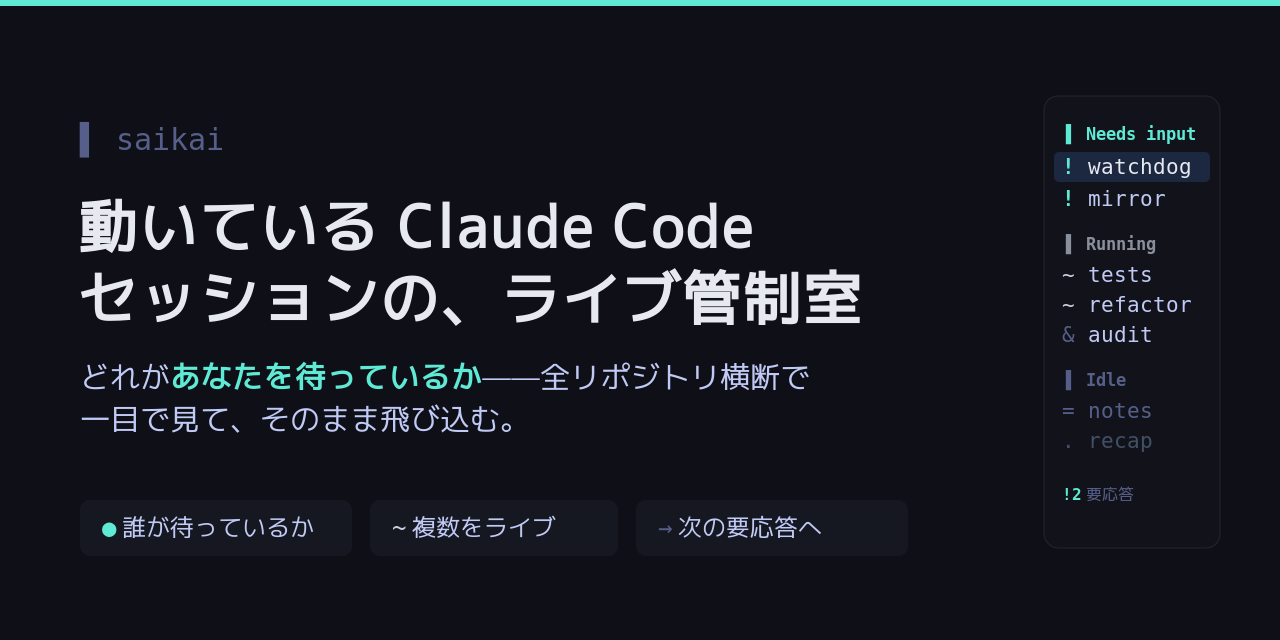
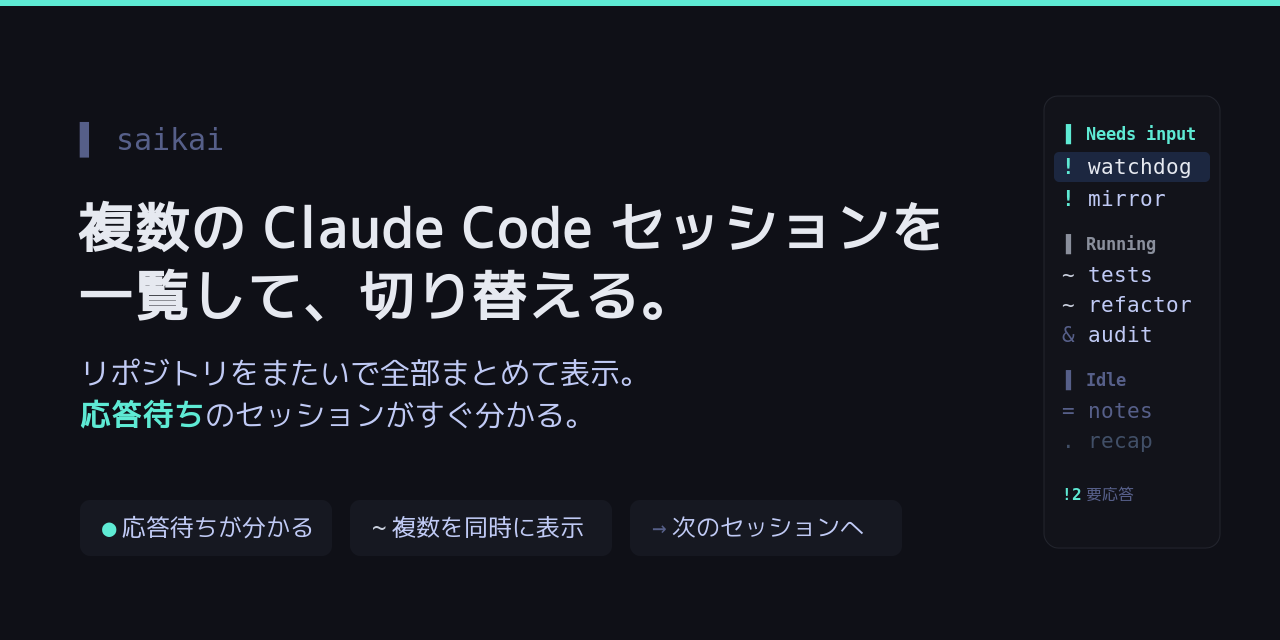
docs(ja): plain, unshowy Japanese copy for the card + README top
The Japanese hero/card leaned on translated-English flourishes ("ライブ管制室",
"飛び込む", "見張る", "艦隊") that read as trying-too-hard to a Japanese developer.
Rewrite in plain, action-based Japanese that just says what it does:

- card + README tagline → "複数の Claude Code セッションを一覧して、切り替えるツール。"
- sub/vs/who-it's-for/feature bullets → 一覧・切り替え・表示・応答待ち wording,
  dropping 管制室/飛び込む/見張る/艦隊 throughout.

The single cyan "応答待ち" accent and the meaning are unchanged; only the register
is calmer. English copy is left as-is (natural to a native reader).

diff --git a/README.ja.md b/README.ja.md
@@ -8,17 +8,17 @@
 
 [English](README.md) | **日本語**
 
-> ## 動いている Claude Code セッションぜんぶの、ライブ管制室。
-> **どれがあなたを待っているか**を——全リポジトリ・worktree を横断して——一目で見て、
-> そのまま飛び込む。左に検索できる一覧、右に選んだセッションがライブで動きます。
+> ## 複数の Claude Code セッションを一覧して、切り替えるツール。
+> リポジトリや worktree をまたいで全部まとめて表示し、**どれが応答待ちか**をひと目で
+> 確認できます。左に検索できる一覧、右に選んだセッションがそのまま動きます。
 
-<!-- 暫定ヒーロー: 現行の split-live 艦橋（SVG・実UIと一致）。アニメGIFを撮り直したら
+<!-- 暫定ヒーロー: 現行の split-live 画面（SVG・実UIと一致）。アニメGIFを撮り直したら
      ここを saikai-demo-ja.gif に戻す。 -->
 ![saikai — 左にセッション一覧、右で選んだ Claude がライブで動く](docs/assets/saikai-split-live.svg)
 
 **`claude --resume` との違い:** `-r` は今いるフォルダの *1つ* を開くだけ。saikai は
-**全部**を同時に見張り、複数を**ライブ**で並走させ、どれが作業中・入力待ち・完了して
-応答待ちかを**シアン1色**で一目に示します。ファイルを開き直すのと、管制室に座るのの違い。
+リポジトリや worktree をまたいで**全部を一覧**し、複数を同時に動かしたまま、どれが
+作業中・入力待ち・応答待ちかを**シアン1色**で示して、必要なものへすぐ切り替えられます。
 
 ## こんな人に向いています
 
@@ -27,15 +27,15 @@
 `claude --resume` は今のフォルダしか知らず、検索もプレビューも横断ビューもありません。
 saikai はその穴を埋めます。たとえばこんなとき:
 
-- **誰が自分を待っているか**を知りたい——動いている全セッションの状態を一目で見て、次に
-  対応すべきものへキー一つで飛びたい
-- 複数の `claude` を**ライブ**で並走させ、ターミナルのタブの山を作らずに即座に切り替えたい
+- **どれが応答待ちか**を知りたい——動いている全セッションの状態を一目で見て、次に対応
+  すべきものへキー一つで移りたい
+- 複数の `claude` を同時に動かし、ターミナルのタブを増やさずに切り替えたい
 - タイトルだけでは思い出せない作業を、本文・プレビュー・差分といった**中身**から探したい
-- よく戻るものをお気に入りにし、作業セットごと後で戻したい
+- よく戻るものをお気に入りにし、作業セットごと後で開き直したい
 
 ターミナルアプリにしたのには理由があります。Claude Code がそもそも CLI 中心で新機能も
-そこから早く来るし、デスクトップアプリより軽い。管制室のような横断ビューを、普段の
-ターミナルにそのまま置きました。
+そこから早く来るし、デスクトップアプリより軽い。横断ビューを、普段のターミナルに
+そのまま置きました。
 
 ## 主な機能
 
@@ -44,12 +44,12 @@ saikai はその穴を埋めます。たとえばこんなとき:
 
 > **行ったり来たり**: 一覧で `Enter` → 右ペインで Claude ／ `Ctrl+]` で一覧へ戻る ／ `F2` `F3` でペインを切り替え
 
-- **誰があなたを待っているか、一目で。** 一覧は状態でグループ分けされ、**入力待ち（Needs
-  input）が先頭**。「今あなたを待っている」だけにシアン1色を予約（`?` 入力待ち · `!` 完了・
-  要応答）、それ以外は落ち着いた dim。カーソルは起動時に最初の要応答へ*落ち*、キー一つで
-  次の要応答へ飛べます。
-- **複数の Claude をライブで並走、キー一つで切替。** 選んだセッションを右ペインで実プロセス
-  として動かし、行き来できます——ターミナルのタブの山ではなく、見張って操舵できる艦隊。
+- **どれが応答待ちか、一目で。** 一覧は状態でグループ分けされ、**入力待ち（Needs input）
+  が先頭**に並びます。「今あなたの応答待ち」だけにシアン1色を使い（`?` 入力待ち · `!` 完了・
+  要応答）、それ以外は落ち着いた dim。カーソルは起動時に最初の要応答へ移り、キー一つで
+  次の要応答へ進めます。
+- **複数の Claude を同時に動かし、キー一つで切替。** 選んだセッションを右ペインで実プロセス
+  として動かしたまま、別のセッションへ行き来できます。ターミナルのタブを増やさずに済みます。
 - **中身でセッションを探す。** リポジトリ・worktree を横断してタイトル・本文・ID で検索。
   プレビュー（最初/最後のメッセージが先頭）で見分け、差分を見て、開始フォルダで再開。
 - **お気に入りと系譜で見分ける。** よく戻るものは `f` で。プロンプト再利用・コンテキスト